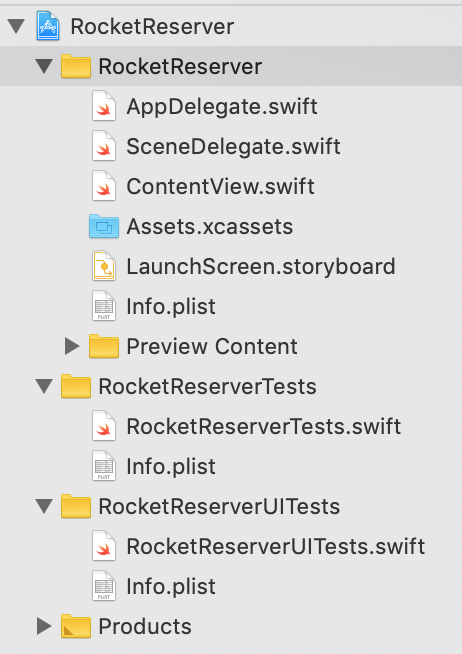
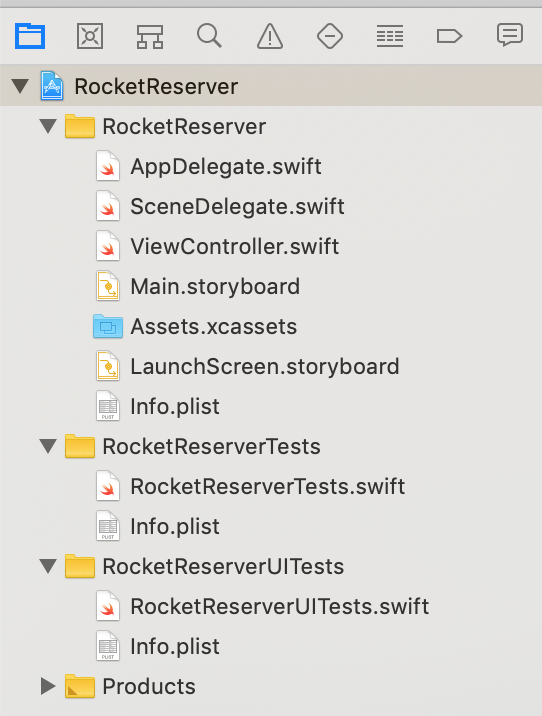
eject on Swift UI for tutorial
thaaat's gonna have to wait until after swift codegen is done

Changed region(s): [[0.0, 0.0, 1.0, 0.9786], [0.697, 0.0, 1.0, 0.0917]]

diff --git a/docs/source/tutorial/tutorial_1.md b/docs/source/tutorial/tutorial_1.md
@@ -18,13 +18,13 @@ Either of those will bring you to the template chooser for a new project. Select
 
 ![select single view app template](images/single_view_app.png)
 
-Then hit **Next**. You'll be brought to the options page for your new project. Name the project **RocketReserver**, make sure the language is **Swift**, and the User Interface is **SwiftUI**:
+Then hit **Next**. You'll be brought to the options page for your new project. Name the project **RocketReserver**, make sure the language is **Swift**, and the User Interface is **Storyboards** (sorry, SwiftUI fans!):
 
 ![options for creating a new project](images/options_for_project.png)
 
 It's probably also a good idea in the long term to make sure the unit and UI test checkboxes are checked, but they're not required for this tutorial. Hit **Next**. You'll then be prompted to select where to save your new project. Pick a place on your computer that's easy to find, such as your Desktop, and hit **Finish**.
 
-Xcode will open your new project for you, and you'll see an extremely basic new SwiftUI project:
+Xcode will open your new project for you, and you'll see an extremely basic new project:
 
 ![initial setup of the project navigator](images/initial_file_setup.png)
 
